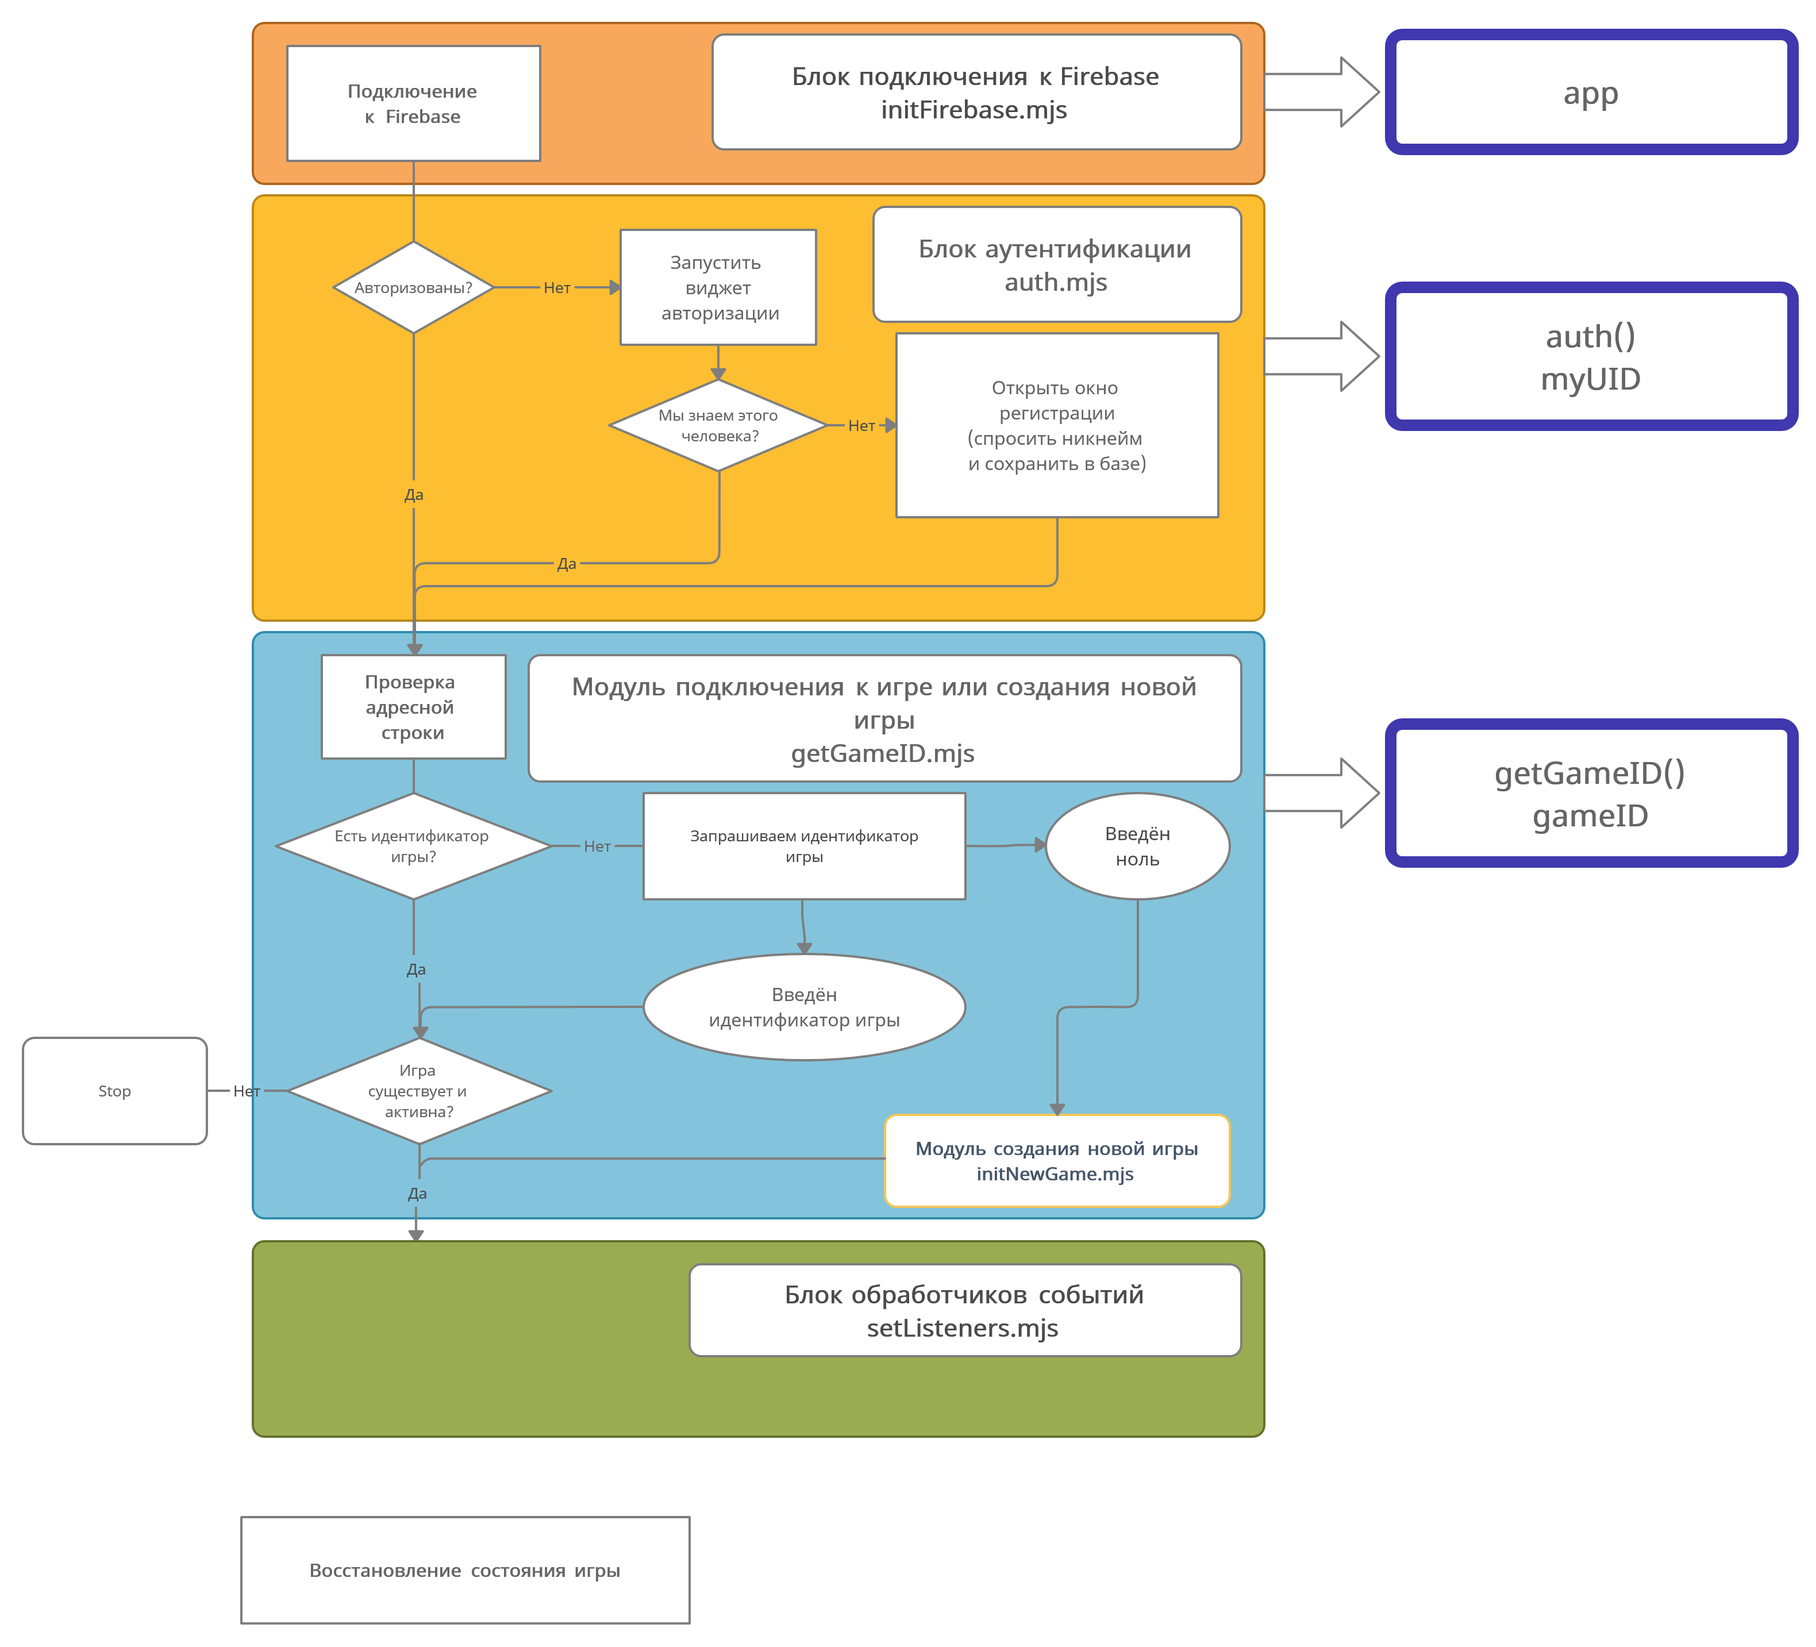
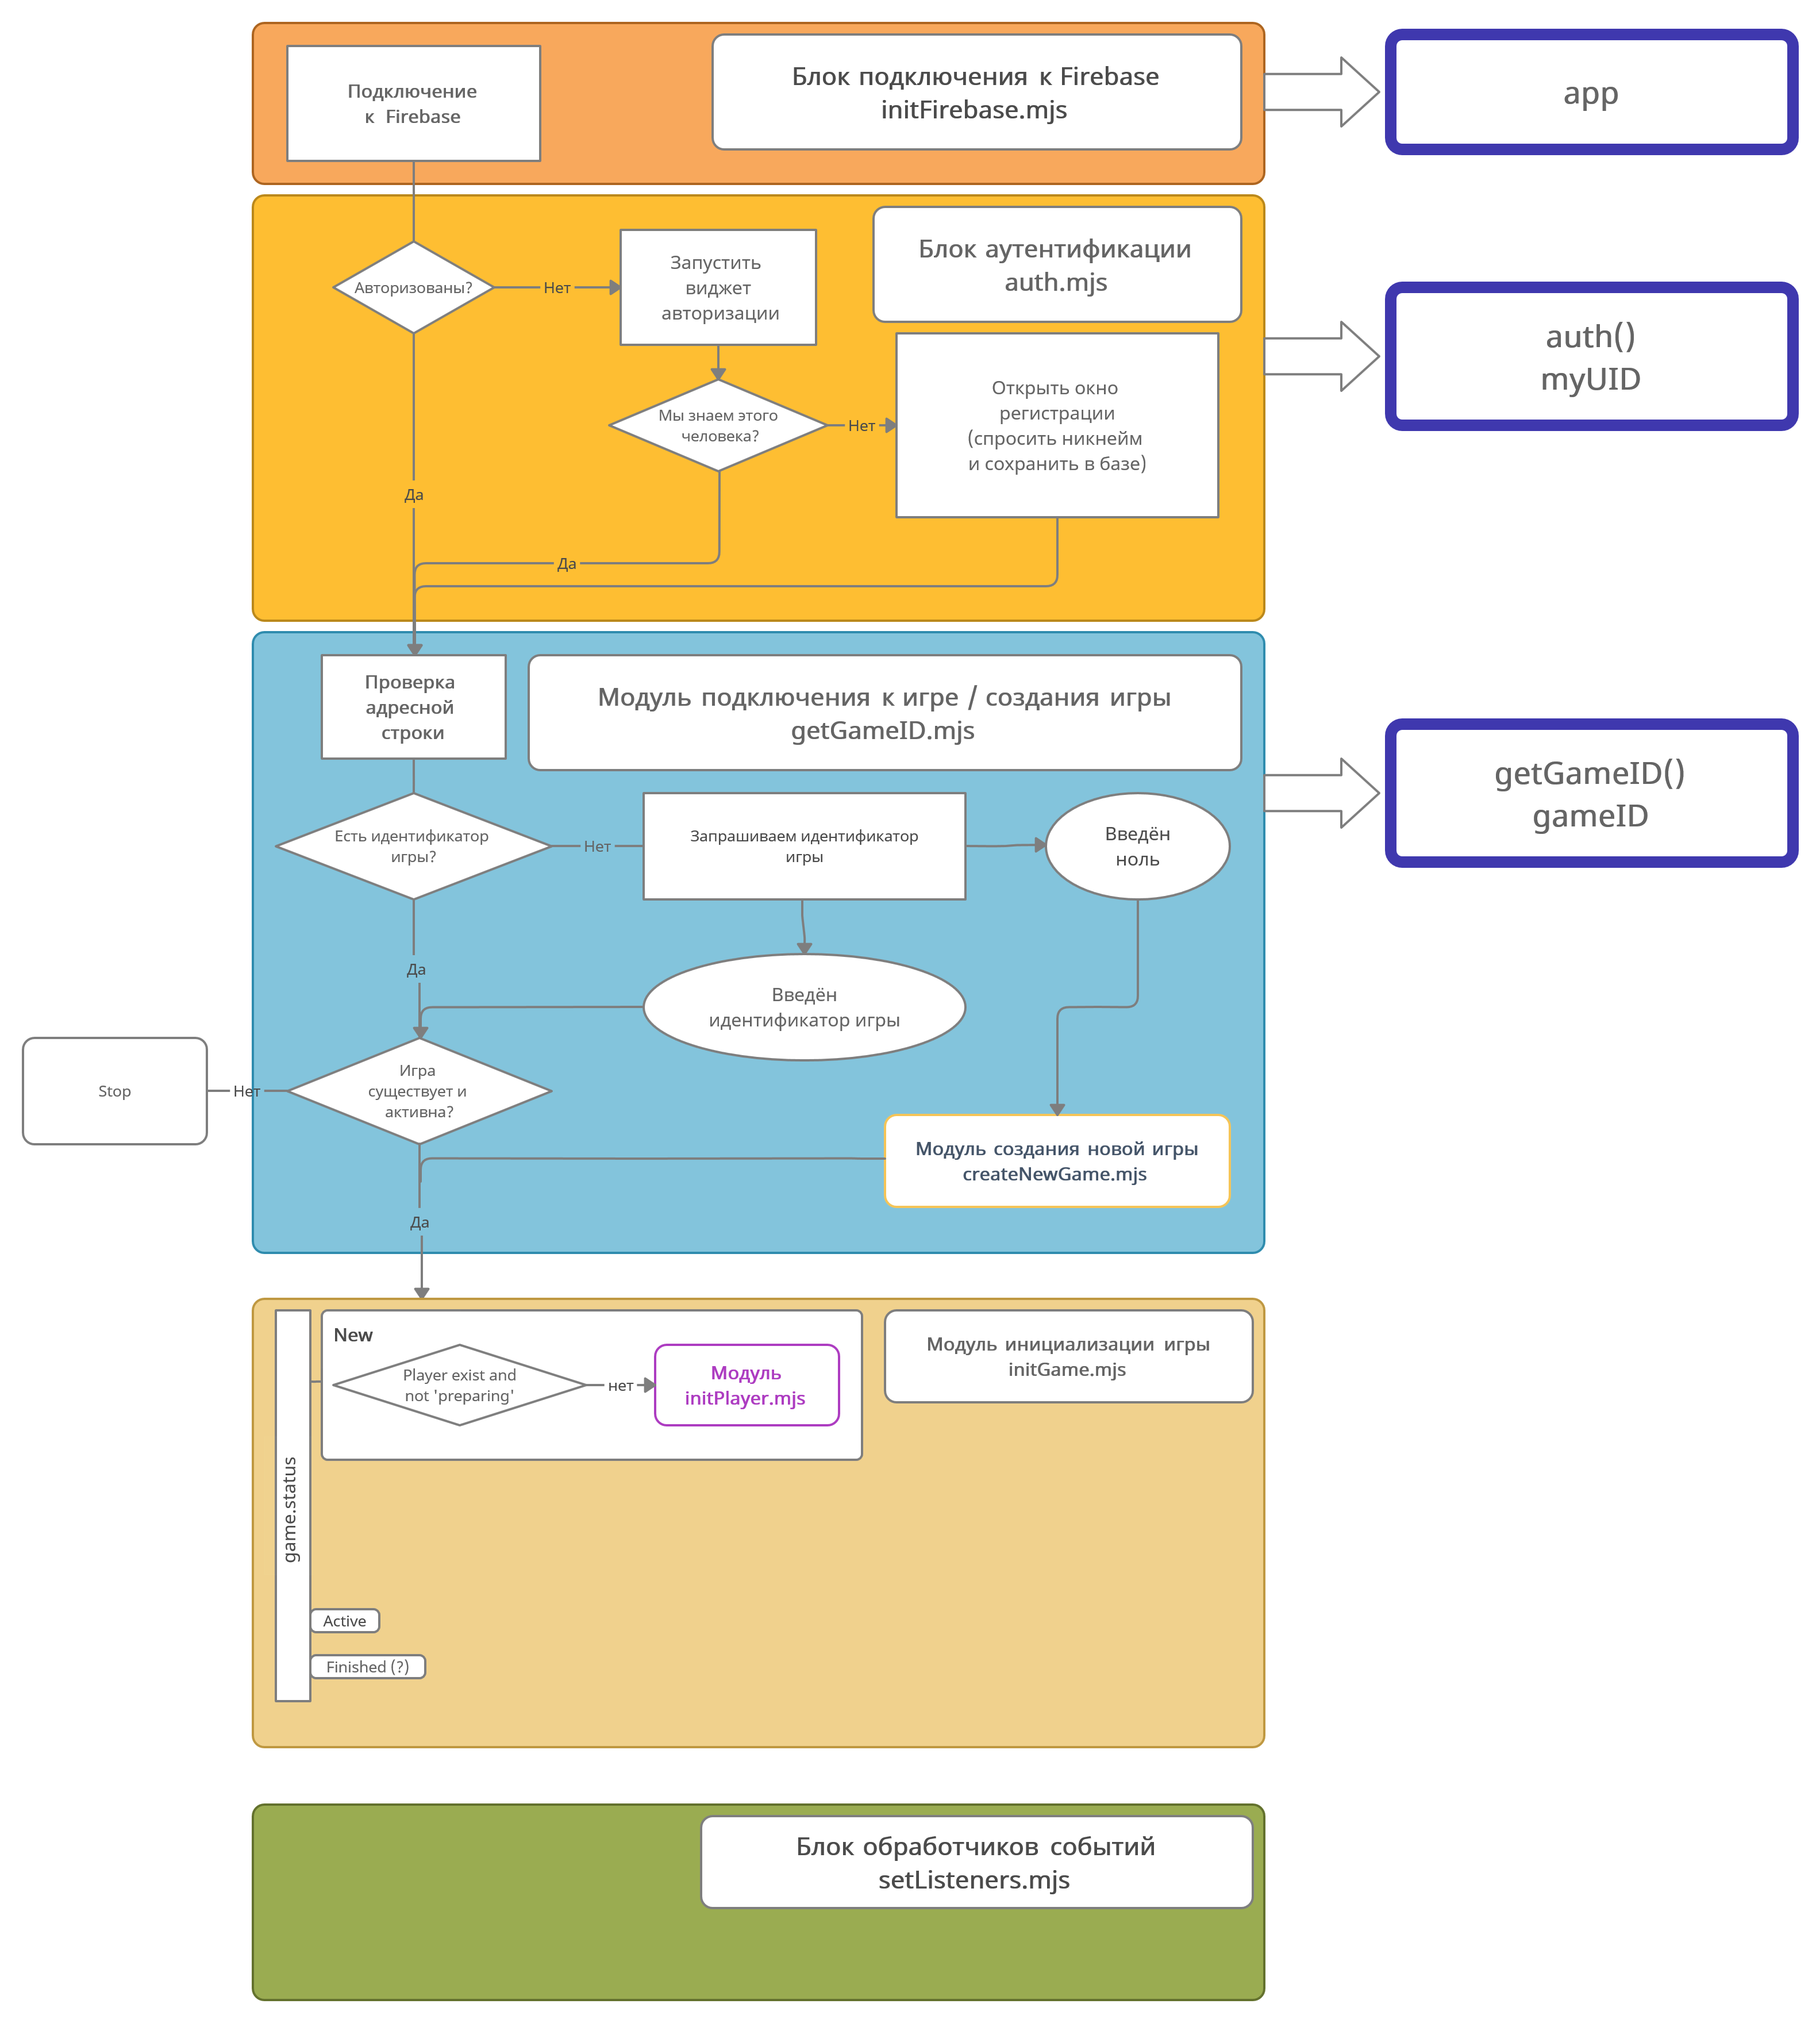
Занятие 24 апреля. Анализ состояния игры и игрока. Начало игры.

diff --git a/JS/index.js b/JS/index.js
@@ -1,9 +1,11 @@
 import { app } from "./initFirebase.mjs";
 import { auth } from "./auth.mjs";
-import { getGameID } from "./getGameID.mjs"
+import { getGameID } from "./getGameID.mjs";
+import { initGame } from "./initGame.mjs";
 
 auth(app)
 	.then(getGameID)
+	.then(initGame)
 	.then(nextStep);
 
 
